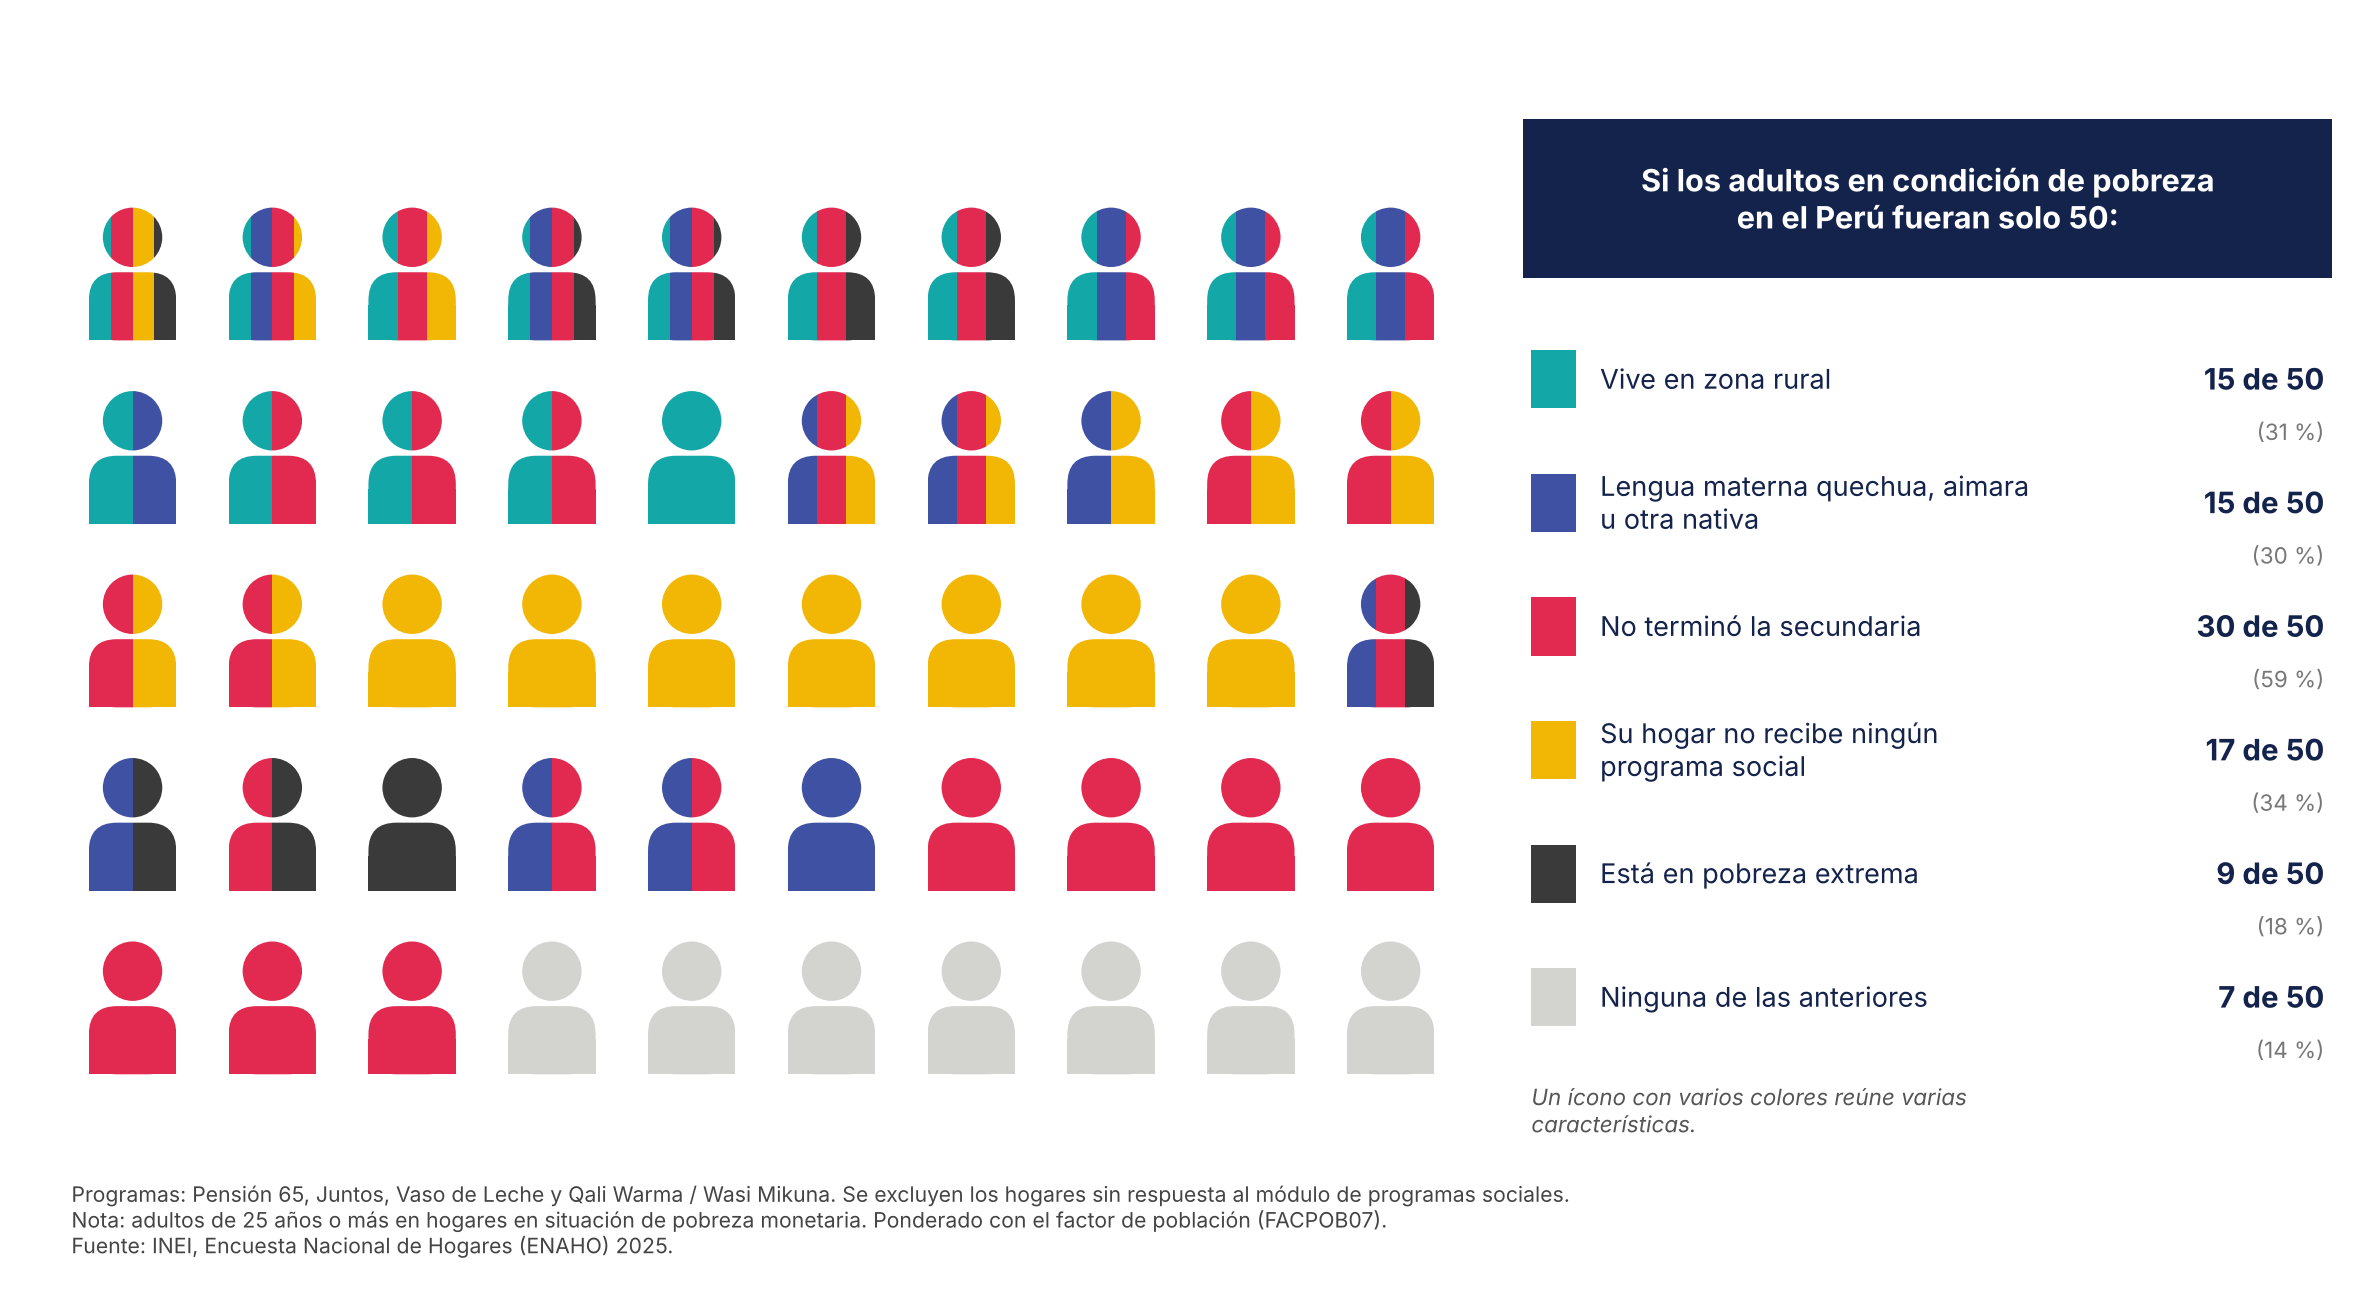
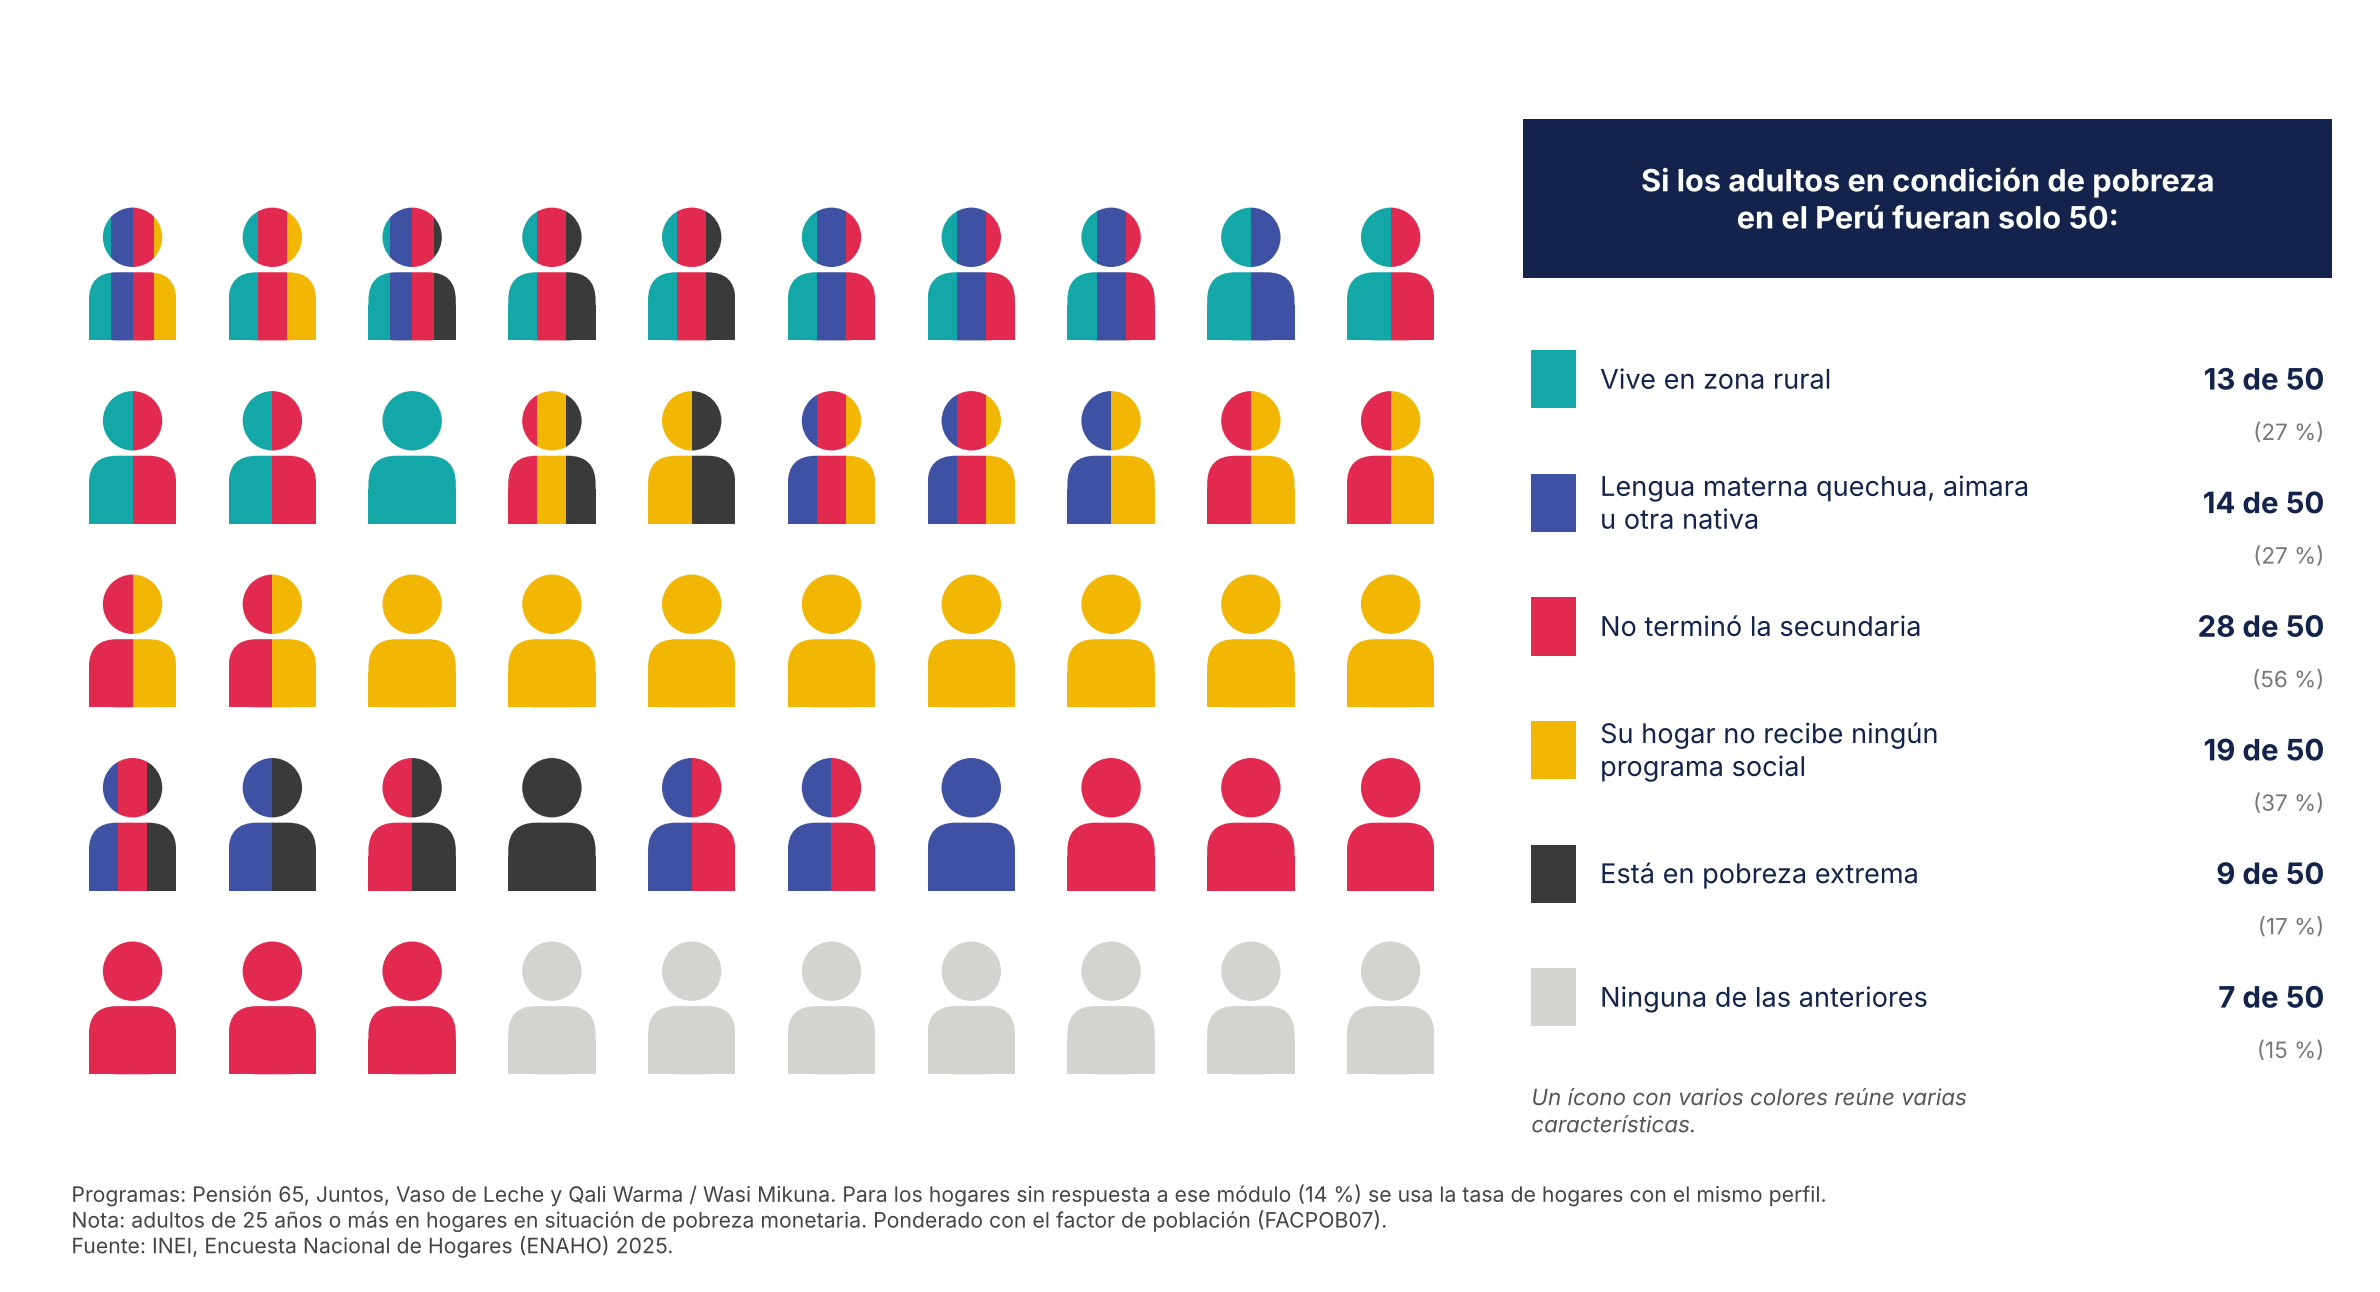
Íconos: mantener la base completa imputando 'no recibe programas' por perfil
Claude-Session: https://claude.ai/code/session_01UnFogaSF2Knum9wnemTp8Q

diff --git a/iconos_adultos_pobres.py b/iconos_adultos_pobres.py
@@ -34,7 +34,8 @@ CARACTERISTICAS = {
     "pobreza_extrema": ("Está en pobreza extrema", CARBON),
 }
 NOTA_PROGRAMAS = ("Programas: Pensión 65, Juntos, Vaso de Leche y Qali Warma / Wasi Mikuna. "
-                  "Se excluyen los hogares sin respuesta al módulo de programas sociales.\n")
+                  "Para los hogares sin respuesta a ese módulo (14 %) se usa la tasa de hogares con el "
+                  "mismo perfil.\n")
 
 # versión: características que se agregan a rural, nativa y sin secundaria
 VARIANTES = {
@@ -96,6 +97,25 @@ def ajustar(combos, pct, objetivo):
     return combos
 
 
+def imputar_sin_programa(x):
+    """Mantiene en la base a quienes no respondieron el módulo 700: a cada uno se le asigna
+    la tasa de 'no recibe programas' de los que sí respondieron y tienen su mismo perfil
+    (rural, Lima, lengua nativa, secundaria y pobreza extrema). Cada no respondiente se
+    divide en dos filas (recibe / no recibe) con su peso repartido según esa tasa."""
+    celdas = ["rural", "lima", "nativa", "sin_secundaria", "pobreza_extrema"]
+    resp = x[x.sin_programa.notna()]
+    tasa = (resp.assign(wp=resp[PESO] * resp.sin_programa).groupby(celdas)
+            .agg(wp=("wp", "sum"), w=(PESO, "sum")))
+    tasa = (tasa.wp / tasa.w).rename("tasa")
+    nr = x[x.sin_programa.isna()].join(tasa, on=celdas)
+    nr["tasa"] = nr.tasa.fillna(np.average(resp.sin_programa, weights=resp[PESO]))
+    si = nr.assign(sin_programa=1.0, **{PESO: nr[PESO] * nr.tasa})
+    no = nr.assign(sin_programa=0.0, **{PESO: nr[PESO] * (1 - nr.tasa)})
+    x = pd.concat([resp, si.drop(columns="tasa"), no.drop(columns="tasa")], ignore_index=True)
+    x["sin_programa"] = x.sin_programa == 1
+    return x
+
+
 def calcular(extras):
     claves = BASE + extras
     d = base.cargar()
@@ -103,8 +123,7 @@ def calcular(extras):
     x["lima"] = x.dominio == 8
     x["pobreza_extrema"] = x.pobreza == 1
     if "sin_programa" in extras:
-        x = x.merge(sin_programa(), on=base.LLAVE, how="left").dropna(subset=["sin_programa"])
-        x["sin_programa"] = x.sin_programa == 1
+        x = imputar_sin_programa(x.merge(sin_programa(), on=base.LLAVE, how="left"))
 
     w = x.groupby(claves)[PESO].sum()
     w = w[w > 0]
